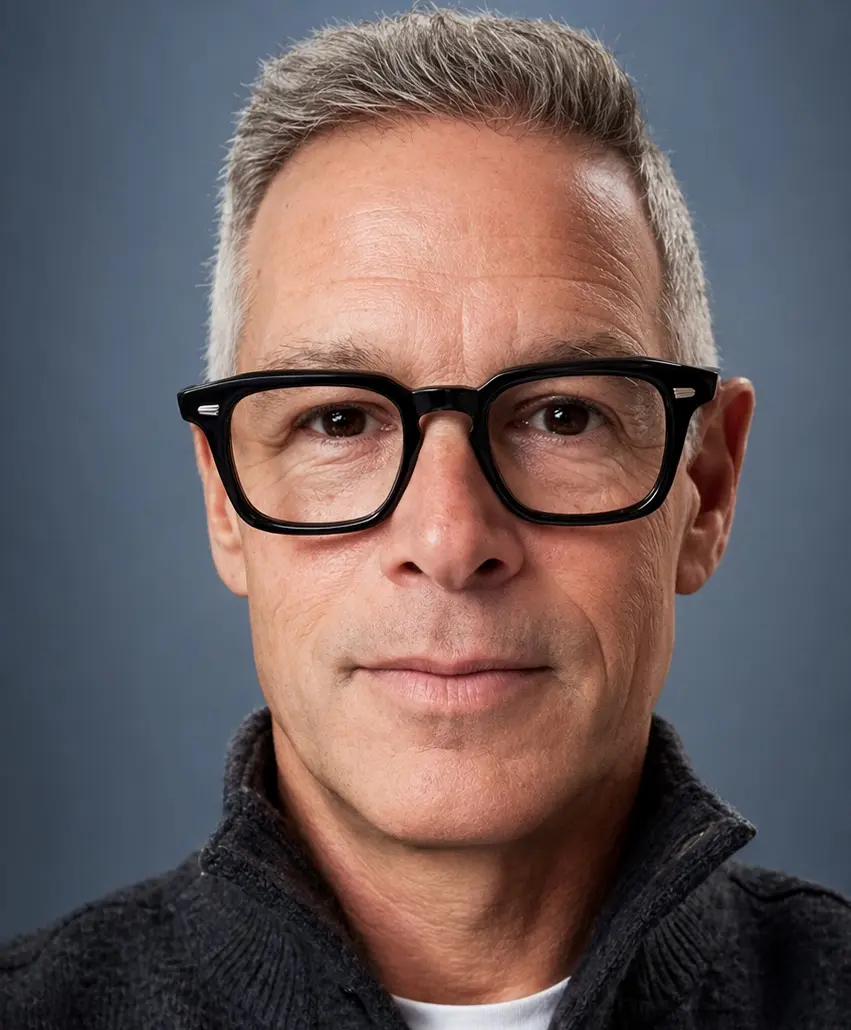
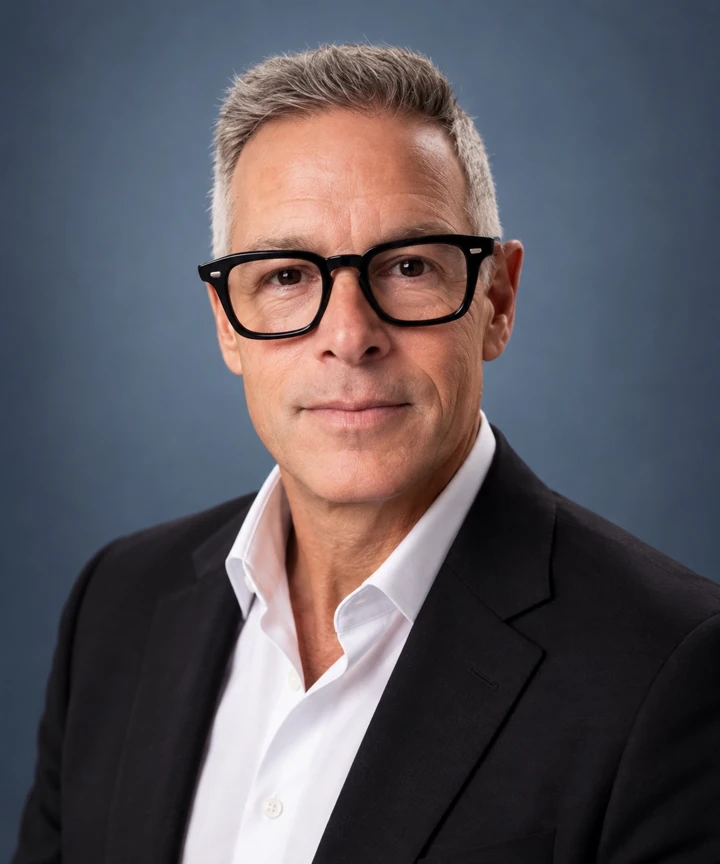
Replace bio portrait and preserve compact responsive sizing

diff --git a/index.html b/index.html
@@ -22,7 +22,7 @@
   <link rel="icon" href="favicon.ico?v=20260909-2">
   <link rel="icon" type="image/png" sizes="512x512" href="ai-at-sea-assets/ai-at-sea-icon-512.png?v=20260909-2">
   <link rel="apple-touch-icon" sizes="180x180" href="ai-at-sea-assets/apple-touch-icon.png?v=20260909-2">
-  <link rel="stylesheet" href="ai-at-sea-assets/styles.css?v=20260909-1">
+  <link rel="stylesheet" href="ai-at-sea-assets/styles.css?v=20260909-bio2">
   <script type="application/ld+json">
 {
   "@context": "https://schema.org",
@@ -405,7 +405,7 @@
     </section>
 
     <section class="about" id="about" aria-labelledby="about-title">
-      <figure class="about-portrait"><img src="ai-at-sea-assets/david-headshot.webp" alt="Portrait of David Lewis" width="851" height="1030" loading="lazy"><figcaption>Meet David Lewis</figcaption></figure>
+      <figure class="about-portrait"><img src="ai-at-sea-assets/david-headshot.webp?v=20260909-bio2" alt="Portrait of David Lewis in a black jacket and white shirt" width="720" height="864" loading="lazy" decoding="async"><figcaption>Meet David Lewis</figcaption></figure>
       <div class="about-copy">
         <p class="section-kicker">Your guide to what’s next</p>
         <h2 id="about-title">A technologist<br>with a storyteller’s <em>heart.</em></h2>

diff --git a/ai-at-sea-assets/styles.css b/ai-at-sea-assets/styles.css
@@ -70,7 +70,7 @@ section[id]{scroll-margin-top:28px}
 .experience-list span{font-size:.875rem}
 .about{grid-template-columns:240px minmax(0,1fr);gap:64px}
 .about-portrait{width:100%;max-width:240px;margin:0;align-self:start}
-.about-portrait img{display:block;width:100%;height:auto;aspect-ratio:851/1030;border-radius:12px;box-shadow:0 16px 40px #05091418}
+.about-portrait img{display:block;width:100%;height:auto;aspect-ratio:5/6;border-radius:12px;box-shadow:0 16px 40px #05091418}
 .about-portrait figcaption{font-size:.875rem;color:#596173;margin-top:12px}
 .about h2{font-size:clamp(2.5rem,4.1vw,4.5rem);max-width:800px}
 .about-lede{margin:28px 0;font-size:1.3rem;max-width:720px}

diff --git a/docs/ai-at-sea/BRAND.md b/docs/ai-at-sea/BRAND.md
@@ -50,3 +50,7 @@ Write concrete guest outcomes and concise buyer information. No fabricated stati
 ## Latest hero approval — September 9, 2026
 
 David supplied `A62FE404-DDFB-486E-BBAB-ECE704BFAA5A.jpeg` to replace the stage hero. The 1536×864 (16:9) image shows David in a black suit and white shirt, facing the audience with a palm-up gesture. Delivered as `david-ai-keynote-hero.webp`, preserving the supplied composition; the homepage reserves its actual dimensions and versions the image URL for cache refresh. Preserve this approved image until explicitly replaced.
+
+## Latest bio portrait approval — September 9, 2026
+
+David supplied `69DCCCC8-8181-4350-BDFA-D3922C8F11D6.jpeg`, showing a black jacket and white shirt against a blue-gray background. Delivered as `david-headshot.webp` at 720×864, maintaining the 5:6 composition. Keep the restrained existing displayed widths: 240px desktop, 180px tablet, 156px phone, with automatic proportional height. Asset and stylesheet URLs are versioned to refresh cached portraits.
